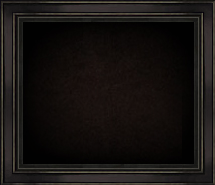
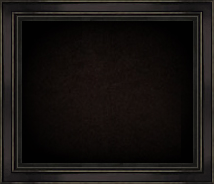
add image for different states

Changed region(s): [[0.0, 0.0, 1.0, 1.0]]

diff --git a/src/Components/Common/ao-button/ao-button.scss b/src/Components/Common/ao-button/ao-button.scss
@@ -1,8 +1,8 @@
 .button-container {
   border: 2px solid transparent;
-  border-image: url(../../../assets/input-area-empty-background.png) 2 round;
   background-repeat: no-repeat;
-  background-size: cover;
+  background-size: 100% 100%;
+  border-image: url(../../../assets/input-area-empty-background.png) 2 round;
   background-image: url(../../../assets/background.png);
   display: flex;
   flex-direction: column;
@@ -13,10 +13,14 @@
   font-family: Cardo, Arial;
 
   &:hover {
-    color: gray;
+    color: white;
+    border-image: url(../../../assets/border-over.png) 2 round;
+    background-image: url(../../../assets/background-over.png);
   }
 
   &:active {
-    color: yellow;
+    color: #7F7F7F;
+    border-image: url(../../../assets/border-off.png) 2 round;
+    background-image: url(../../../assets/background-off.png);
   }
 }

diff --git a/src/Components/Settings.scss b/src/Components/Settings.scss
@@ -1,15 +1,13 @@
 .container {
+  background-size: 100% 100%;
   background-image: url(../assets/background.png);
   background-repeat: no-repeat;
-  background-size: cover;
   border: 20px solid transparent;
-  padding: 15px;
-  border-image: url(../assets/frame.png) 30 round;
+  border-image: url(../assets/frame.png) 22 round;
   display: flex;
   flex-direction: column;
   color: white;
   width: fit-content;
-  padding: 10px;
   .header {
     text-align: center;
     font-weight: 900; 
